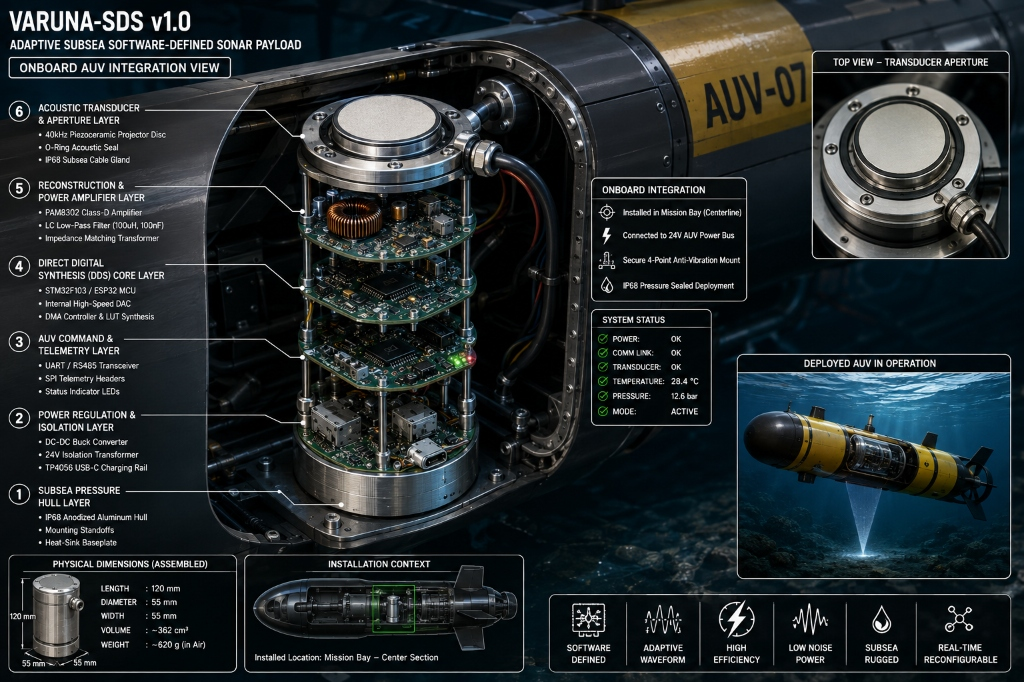
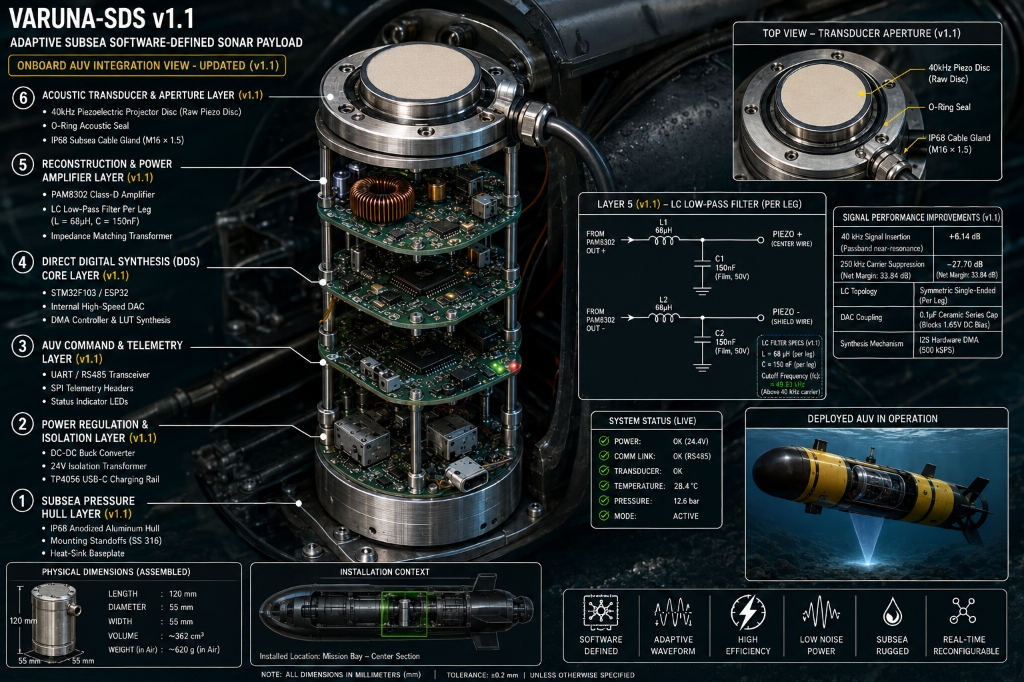
docs(assets): update CAD exploded view and AUV integration diagrams to v1.1 with corrected 68uH/150nF LC filter schematics

diff --git a/README.md b/README.md
@@ -43,7 +43,7 @@ The payload is built in **6 stacked cylindrical layers**, each handling a distin
 | Layer | Name | Components |
 | :---: | :--- | :--- |
 | 6 | **Acoustic Transducer & Aperture** | 40 kHz Waterproof Piezoceramic Disc, IP68 Cable Gland, O-Ring Seal |
-| 5 | **Reconstruction & Power Amplifier** | PAM8302 Class-D Amplifier, 100 µH + 100 nF LC Filter, Impedance Matching Transformer |
+| 5 | **Reconstruction & Power Amplifier** | PAM8302 Class-D Amplifier, 68 µH + 150 nF LC Filter (fc ≈ 49.83 kHz), Impedance Matching Transformer |
 | 4 | **DDS Synthesis Core** | STM32F103 / ESP32, Internal High-Speed DAC, DMA Controller, LUT Circuit |
 | 3 | **AUV Command & Telemetry** | UART/RS485 Transceiver, SPI Telemetry Headers, Status LEDs |
 | 2 | **Power Regulation & Isolation** | DC-DC Buck Converter, 24V AUV Bus Isolation Transformer, TP4056 USB-C Rail |
